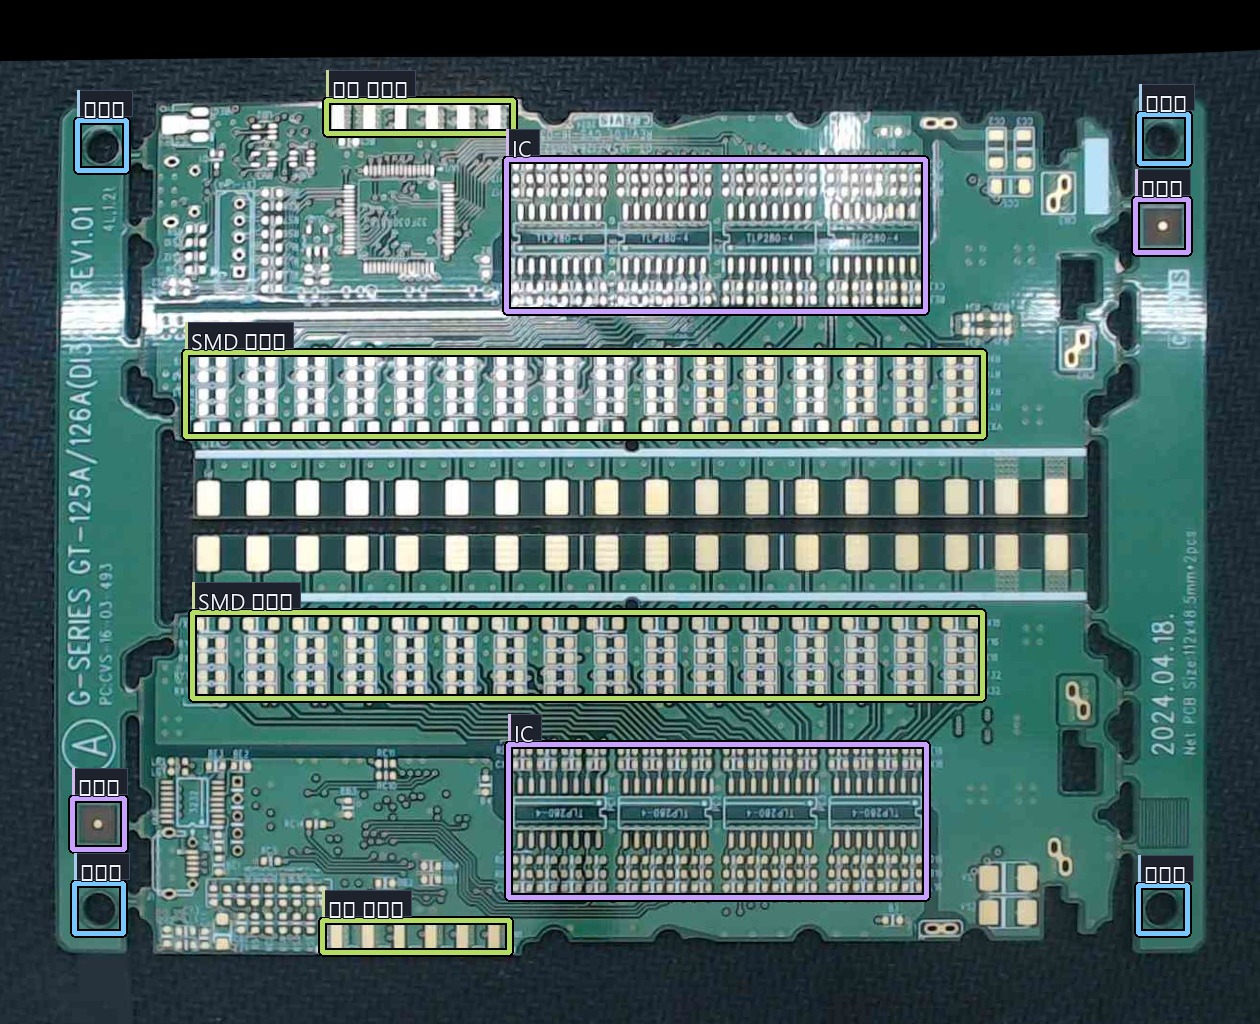
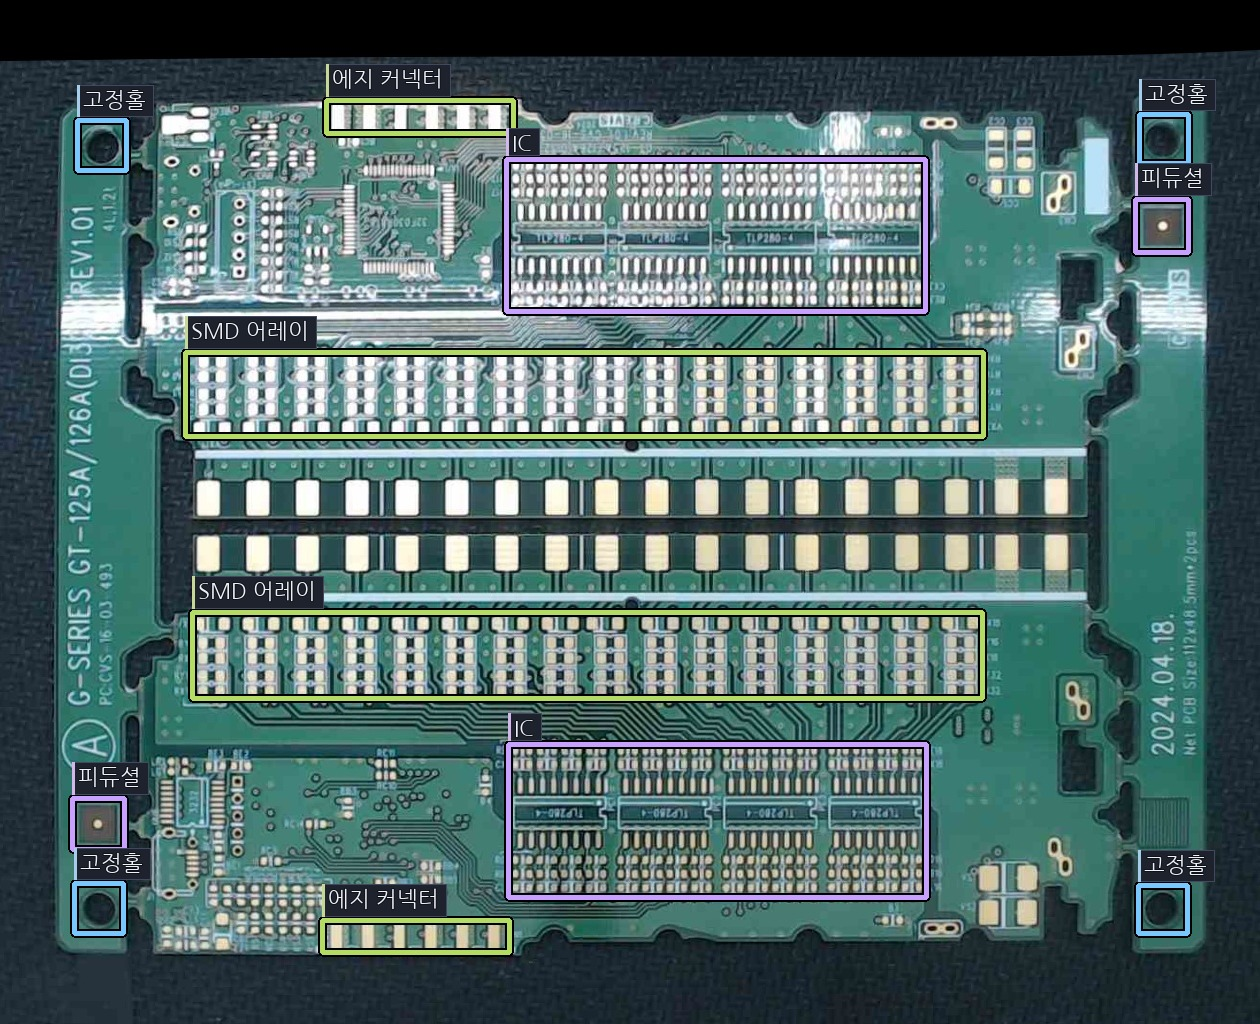
fix(edge): bundle Nanum Gothic for board-reference Korean labels
Ship edge/fonts/NanumGothic-Regular.ttf and prefer it in PIL font loading so
class labels do not fall back to Latin-only fonts (tofu squares).

Refresh static dashboard overlay JPEGs.

diff --git a/edge/api/board_reference_overlay.py b/edge/api/board_reference_overlay.py
@@ -19,6 +19,7 @@ logger = logging.getLogger(__name__)
 
 _EDGE_ROOT = Path(__file__).resolve().parent.parent
 _REPO_ROOT = _EDGE_ROOT.parent
+_BUNDLED_KO_FONT = _EDGE_ROOT / "fonts" / "NanumGothic-Regular.ttf"
 
 # frontend/src/types/inspection.ts DEFECT_LABEL 과 동기화
 _CLASS_LABEL_KO: dict[str, str] = {
@@ -77,19 +78,38 @@ def _pil_font(size_px: int):
     from PIL import ImageFont
 
     size_px = max(11, min(size_px, 30))
-    # 일반 굵기 우선 — 가독성·톤 다운 (Bold보다 단정)
-    for fp in (
-        r"C:\Windows\Fonts\segoeui.ttf",
+    # 한글 미포함 폰트(예: DejaVu)로 폴백되면 라벨이 □로 깨짐 → 번들 나눔고딕 우선.
+    candidates: list[Path | str] = [
+        _BUNDLED_KO_FONT,
         r"C:\Windows\Fonts\malgun.ttf",
-        "/usr/share/fonts/truetype/noto/NotoSansCJK-Regular.ttc",
+        r"C:\Windows\Fonts\malgunsl.ttf",
+        r"C:\Windows\Fonts\segoeui.ttf",
         "/usr/share/fonts/truetype/nanum/NanumGothic.ttf",
-        "/usr/share/fonts/truetype/dejavu/DejaVuSans.ttf",
-    ):
-        try:
-            return ImageFont.truetype(fp, size_px)
-        except OSError:
+        "/usr/share/fonts/truetype/nanum/NanumBarunGothic.ttf",
+        "/usr/share/fonts/opentype/noto/NotoSansCJK-Regular.ttc",
+        "/usr/share/fonts/opentype/noto-cjk/NotoSansCJK-Regular.ttc",
+        "/usr/share/fonts/truetype/noto/NotoSansCJK-Regular.ttc",
+        "/usr/share/fonts/noto-cjk/NotoSansCJK-Regular.ttc",
+    ]
+    for fp in candidates:
+        p = Path(fp)
+        if not p.is_file():
             continue
-    return ImageFont.load_default()
+        try:
+            # .ttc 는 컬렉션 — index 0으로 로드 (환경에 따라 조정 필요 시 추가 후보 시도)
+            if p.suffix.lower() == ".ttc":
+                return ImageFont.truetype(str(p), size_px, index=0)
+            return ImageFont.truetype(str(p), size_px)
+        except (OSError, ValueError):
+            continue
+
+    logger.warning(
+        "[board-ref] 한글 라벨용 폰트를 찾지 못했습니다. edge/fonts/NanumGothic-Regular.ttf 배치를 확인하세요."
+    )
+    try:
+        return ImageFont.truetype(str(_BUNDLED_KO_FONT), size_px)
+    except OSError:
+        return ImageFont.load_default()
 
 
 def _label_font_size_px(h: int, w: int) -> int: